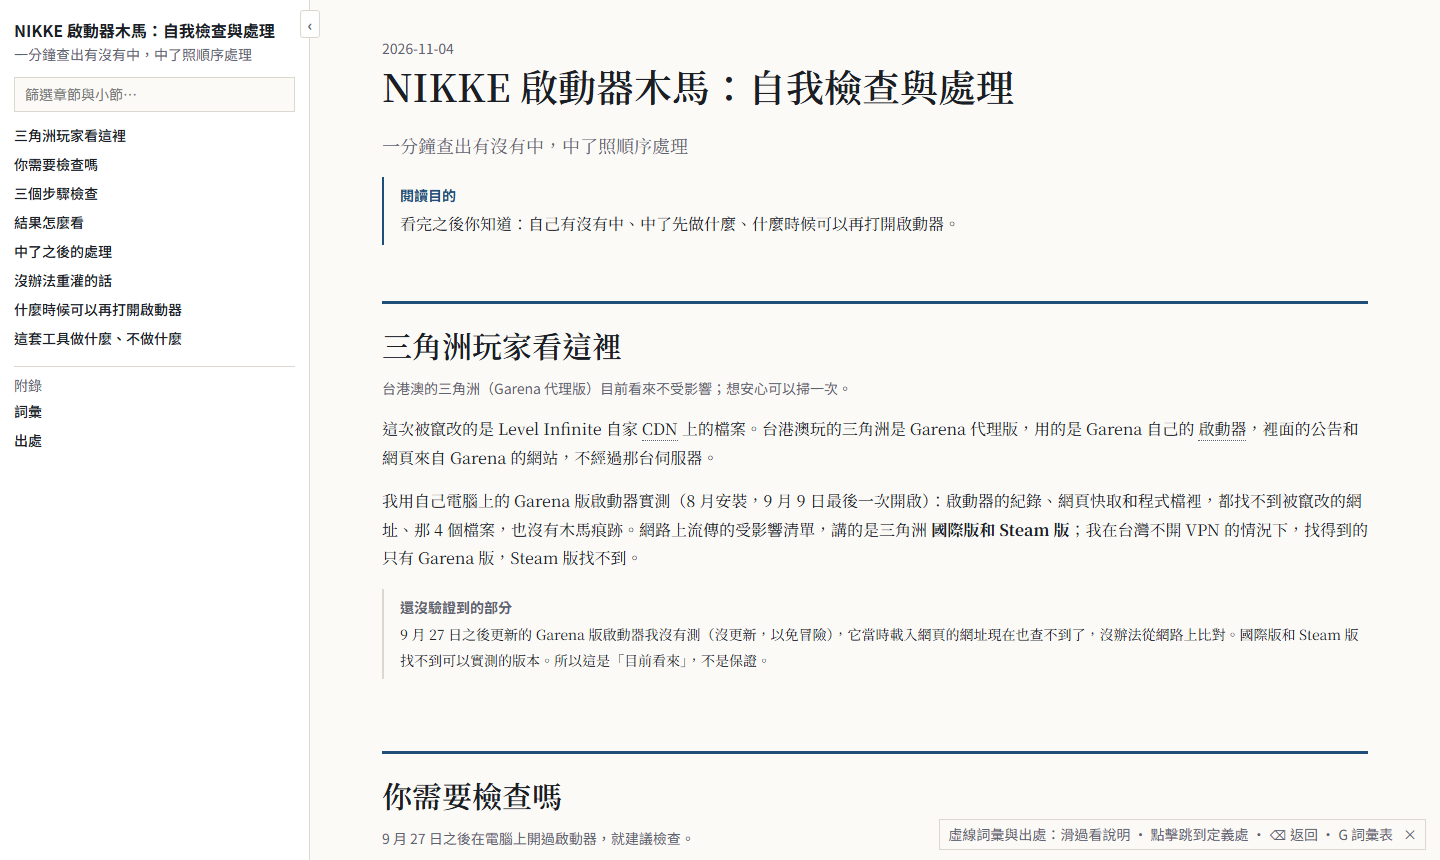
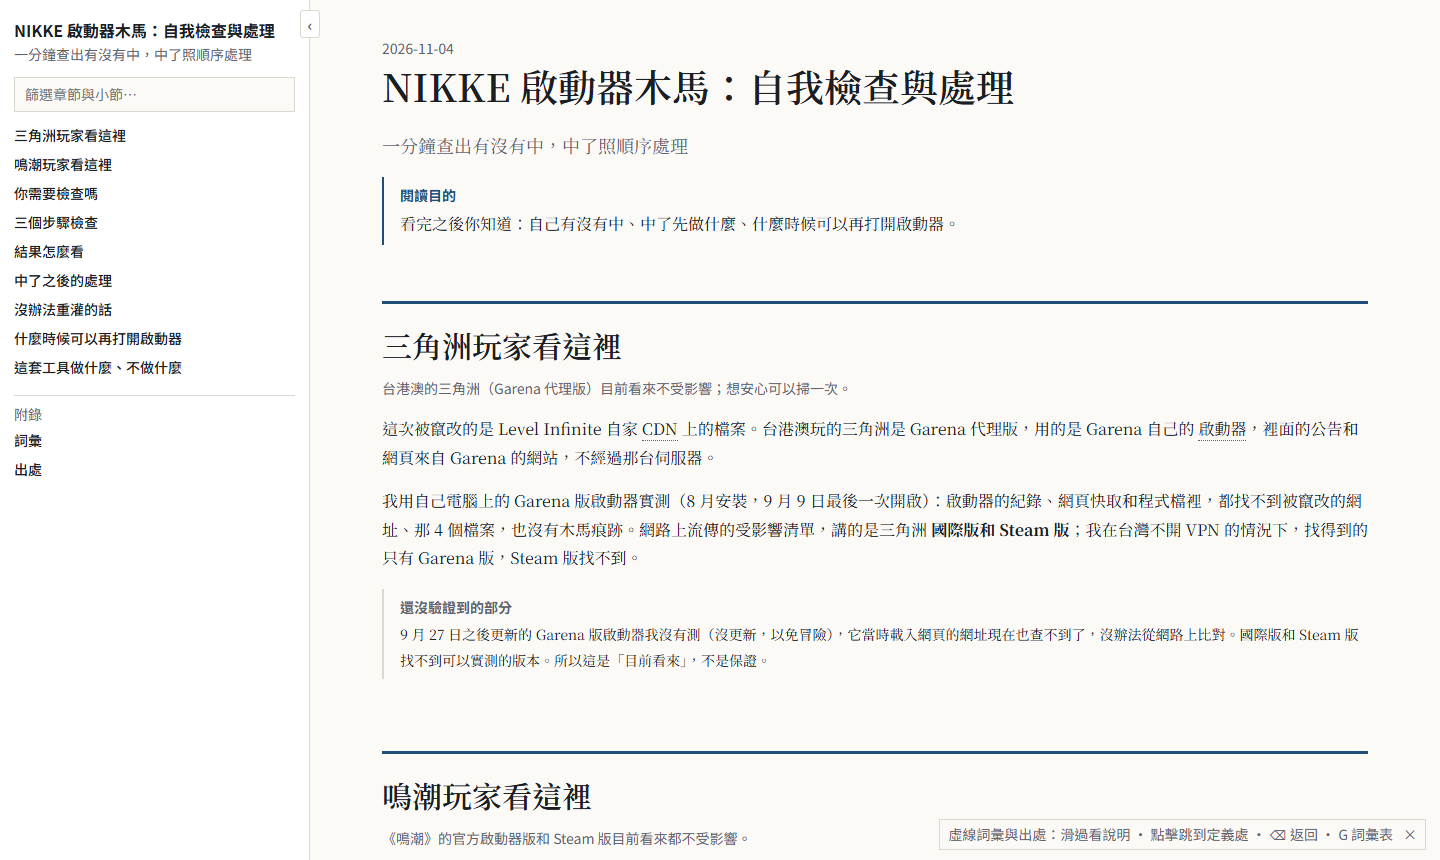
docs: add a wuthering waves section to readme, facts and player guide
The author's read-only byte scan of the official-launcher and Steam
editions found no K2F or tampered-CDN indicator; both binaries are
Kuro-signed and use a WebView2 launcher, not the Level Infinite one.

Changed region(s): [[0.0, 0.1814, 0.125, 0.5744], [0.25, 0.907, 0.5312, 0.9977]]

diff --git a/docs/index.html b/docs/index.html
@@ -420,11 +420,12 @@ li{margin:4px 0}
 #side ~ main{margin-left:var(--pdl-side-w)}
 @media (max-width:920px){#side{width:auto} #side ~ main{margin-left:0}}
 </style>
-<meta name="carrier-stamp" content="{&quot;body_sha256&quot;: &quot;27b3443823ffcdc9425d26d485ca821524e2781a7c527e9370f9469e35c83928&quot;, &quot;built_at&quot;: &quot;2026-11-04T13:22:57Z&quot;, &quot;carrier&quot;: &quot;html-explainer&quot;, &quot;content_sha256&quot;: &quot;d03e2006a87051a9d2cc14cf9e83aa79be0690f8aa269301fc20a74e3ef14c13&quot;, &quot;schema&quot;: &quot;explainer/2&quot;, &quot;version&quot;: 11}">
+<meta name="carrier-stamp" content="{&quot;body_sha256&quot;: &quot;6eb673931feba6b20d6de6127947c8bfbe74fb8996285ca454e2a71be12f76b0&quot;, &quot;built_at&quot;: &quot;2026-11-04T15:09:36Z&quot;, &quot;carrier&quot;: &quot;html-explainer&quot;, &quot;content_sha256&quot;: &quot;ae0ba28315804a2d31ec7896658edf493eb009008e1f83d62b08ac6d6aafa9b1&quot;, &quot;schema&quot;: &quot;explainer/2&quot;, &quot;version&quot;: 11}">
 </head>
 <body>
 <nav id="side" aria-label="章節導覽"><h1>NIKKE 啟動器木馬：自我檢查與處理</h1><div class="sub">一分鐘查出有沒有中，中了照順序處理</div>
 <a class="l1" href="#deltaforce" data-sec>三角洲玩家看這裡</a>
+<a class="l1" href="#wuwa" data-sec>鳴潮玩家看這裡</a>
 <a class="l1" href="#who" data-sec>你需要檢查嗎</a>
 <a class="l1" href="#check" data-sec>三個步驟檢查</a>
 <a class="l1" href="#verdict" data-sec>結果怎麼看</a>
@@ -436,7 +437,7 @@ li{margin:4px 0}
 <a class="l1" href="#x_glossary" data-sec>詞彙</a>
 <a class="l1" href="#x_refs" data-sec>出處</a>
 </nav>
-<main data-sections="deltaforce,who,check,verdict,fix,noreinstall,reopen,limits">
+<main data-sections="deltaforce,wuwa,who,check,verdict,fix,noreinstall,reopen,limits">
 <header class="pagehead">
 <div class="eyebrow">2026-11-04</div>
 <h1 class="title">NIKKE 啟動器木馬：自我檢查與處理</h1>
@@ -450,12 +451,20 @@ li{margin:4px 0}
 <p>我用自己電腦上的 Garena 版啟動器實測（8 月安裝，9 月 9 日最後一次開啟）：啟動器的紀錄、網頁快取和程式檔裡，都找不到被竄改的網址、那 4 個檔案，也沒有木馬痕跡。網路上流傳的受影響清單，講的是三角洲 <b>國際版和 Steam 版</b>；我在台灣不開 VPN 的情況下，找得到的只有 Garena 版，Steam 版找不到。</p>
 <div class="box src" data-kind="note"><span class="tag">還沒驗證到的部分</span>9 月 27 日之後更新的 Garena 版啟動器我沒有測（沒更新，以免冒險），它當時載入網頁的網址現在也查不到了，沒辦法從網路上比對。國際版和 Steam 版找不到可以實測的版本。所以這是「目前看來」，不是保證。</div>
 </section>
+<section class="ch" id="wuwa" data-kind="content">
+<h2>鳴潮玩家看這裡</h2>
+<div class="chsub">《鳴潮》的官方啟動器版和 Steam 版目前看來都不受影響。</div>
+<p>網路上有人因為騰訊入股庫洛、鳴潮曾和 Level Infinite 合作，猜鳴潮也中了。目前沒有任何樣本或紀錄支持這個說法。</p>
+<p>鳴潮的 <span class="sym" tabindex="0" data-key="啟動器">啟動器</span> 是庫洛自己做的，程式上的數位簽章是庫洛的香港公司；Steam 版也是由庫洛簽章的程式啟動。兩個都不是這次出事的 Level Infinite 啟動器，裡面顯示網頁的元件也跟妮姬那套不同。</p>
+<p>我用自己電腦上的兩個版本實測（9 月 27 日之後都開過）：安裝資料夾和啟動器的網頁快取，大約 2,600 個檔案逐一比對，找不到木馬的網址和連線位址，也找不到被竄改那台 Level Infinite 伺服器的網址。</p>
+<div class="box src" data-kind="note"><span class="tag">還沒驗證到的部分</span>只測了一台電腦，而且只能比對已知的痕跡。檢查工具本身不認得鳴潮的資料夾，不用另外指定；但照 <a href="#check">三個步驟檢查</a> 跑一次還是有用，因為瀏覽器後門那部分不管玩哪款遊戲都會查。</div>
+</section>
 <section class="ch" id="who" data-kind="content">
 <h2>你需要檢查嗎</h2>
 <div class="chsub">9 月 27 日之後在電腦上開過啟動器，就建議檢查。</div>
 <p>2026 年 9 月底到 11 月初，官方 <span class="sym" tabindex="0" data-key="CDN">CDN</span> 上有 4 個檔案被攻擊者竄改。<span class="sym" tabindex="0" data-key="啟動器">啟動器</span> 一打開就會自動載入它們，部分玩家因此被裝上遠端控制 <span class="sym" tabindex="0" data-key="木馬">木馬</span>。它會偷瀏覽器存的密碼和登入狀態、NIKKE 帳密、各種金鑰，以及加密貨幣錢包。</p>
 <p>只要 9 月 27 日之後在 <b>電腦</b> 上打開過啟動器，國際版、港澳台版、日版都算，Steam Deck 和 Linux 也算，就建議檢查。只玩手機版的話，目前沒有出事的回報。</p>
-<div class="box src" data-kind="note"><span class="tag">其他遊戲也會中嗎？</span>網路上流傳一份清單，說王者榮耀國際版、暗區突圍等同一家發行商的電腦版也中了，但到目前為止 <b>沒有證實</b>。清單裡的 PUBG 指的是手機版，發行商 Krafton 已說它沒有電腦版、跟這次無關；PUBG 電腦版（Steam）是 Krafton 自己發行、由 Steam 直接啟動，不經過這次出事的啟動器。台港澳的三角洲看 <a href="#deltaforce">三角洲玩家看這裡</a>。其他遊戲可以照下一節最後一段，指定那個遊戲的啟動器資料夾再跑一次；瀏覽器後門那部分不管玩哪款遊戲都會查。</div>
+<div class="box src" data-kind="note"><span class="tag">其他遊戲也會中嗎？</span>網路上流傳一份清單，說王者榮耀國際版、暗區突圍等同一家發行商的電腦版也中了，但到目前為止 <b>沒有證實</b>。清單裡的 PUBG 指的是手機版，發行商 Krafton 已說它沒有電腦版、跟這次無關；PUBG 電腦版（Steam）是 Krafton 自己發行、由 Steam 直接啟動，不經過這次出事的啟動器。台港澳的三角洲看 <a href="#deltaforce">三角洲玩家看這裡</a>，鳴潮看 <a href="#wuwa">鳴潮玩家看這裡</a>。其他遊戲可以照下一節最後一段，指定那個遊戲的啟動器資料夾再跑一次；瀏覽器後門那部分不管玩哪款遊戲都會查。</div>
 <div class="box warn" data-kind="warn"><span class="tag">先做這件事</span>檢查和處理完之前，不要再打開電腦版啟動器。</div>
 </section>
 <section class="ch" id="check" data-kind="content">
@@ -521,7 +530,7 @@ li{margin:4px 0}
 <div id="pins" aria-label="釘選的預覽卡片"></div>
 <button id="backpill" type="button">↩ 返回（Backspace）</button>
 <script type="application/json" id="previews">{}</script>
-<script type="application/json" id="rail-data">{"deltaforce":{"s":"台港澳的三角洲（Garena 代理版）目前看來不受影響；想安心可以掃一次。","t":["Garena 版不經過這次被竄改的伺服器","想確認：照 三個步驟檢查 跑，工具會自動找到"]},"who":{"s":"9 月 27 日之後在電腦上開過啟動器，就建議檢查。","t":["只玩手機版：目前沒有出事回報","檢查完之前先別開電腦版"]},"check":{"s":"下載、打開終端機、貼一行，再看最後一行結果。只讀檔案，不改任何東西。"},"verdict":{"s":"四種結果；紅字分第 1、第 2 階段。","t":["看到階段 2：處理完前 Chrome 不要登入任何帳號"]},"fix":{"s":"先用手機換密碼，再用處理工具清掉元件。","t":["換密碼工具做不到，要你自己來","處理工具只搬不刪"]},"noreinstall":{"s":"重灌最保險；不能重灌就跑後門掃描，再做 Defender 完整掃描。"},"reopen":{"s":"不必只信官方說法：自己比對 4 個檔案的指紋。","t":["4 個都乾淨才算","隔幾小時多查幾次"]},"limits":{"s":"只找已知痕跡；處理只搬不刪；不是官方工具。"}}</script>
+<script type="application/json" id="rail-data">{"deltaforce":{"s":"台港澳的三角洲（Garena 代理版）目前看來不受影響；想安心可以掃一次。","t":["Garena 版不經過這次被竄改的伺服器","想確認：照 三個步驟檢查 跑，工具會自動找到"]},"wuwa":{"s":"《鳴潮》的官方啟動器版和 Steam 版目前看來都不受影響。","t":["鳴潮用的是庫洛自己的啟動器","想安心：照 三個步驟檢查 跑，瀏覽器那部分照樣會查"]},"who":{"s":"9 月 27 日之後在電腦上開過啟動器，就建議檢查。","t":["只玩手機版：目前沒有出事回報","檢查完之前先別開電腦版"]},"check":{"s":"下載、打開終端機、貼一行，再看最後一行結果。只讀檔案，不改任何東西。"},"verdict":{"s":"四種結果；紅字分第 1、第 2 階段。","t":["看到階段 2：處理完前 Chrome 不要登入任何帳號"]},"fix":{"s":"先用手機換密碼，再用處理工具清掉元件。","t":["換密碼工具做不到，要你自己來","處理工具只搬不刪"]},"noreinstall":{"s":"重灌最保險；不能重灌就跑後門掃描，再做 Defender 完整掃描。"},"reopen":{"s":"不必只信官方說法：自己比對 4 個檔案的指紋。","t":["4 個都乾淨才算","隔幾小時多查幾次"]},"limits":{"s":"只找已知痕跡；處理只搬不刪；不是官方工具。"}}</script>
 <script>window.SITE_REFS = {"MotherSphere 技術整理":{"t":"MotherSphere 技術整理","d":"完整的痕跡清單、時間線與移除順序。","s":"#r_gist","n":true},"WormW 樣本分析":{"t":"WormW 樣本分析","d":"木馬本體的行為分析與偵測規則。","s":"#r_wormw","n":true},"巴哈姆特整理文":{"t":"巴哈姆特整理文","d":"中文懶人包與判斷標準。","s":"#r_baha","n":true},"工具原始碼":{"t":"工具原始碼","d":"四支 PowerShell 腳本，下載前可以先看內容。","s":"#r_repo","n":true}};
 window.SITE_SYMS = {"啟動器":{"t":"啟動器 — launcher","d":"電腦版 NIKKE 開遊戲前出現的那個視窗。它會從網路載入公告和網頁，這次出事的就是它載入的程式。","s":"#g_launcher","n":true},"CDN":{"t":"CDN — content delivery network","d":"官方用來把檔案發到世界各地的伺服器群。各地有很多節點，你連到的不一定是同一台。","s":"#g_cdn","n":true},"木馬":{"t":"木馬 — remote access trojan","d":"讓攻擊者可以遠端操作你電腦的程式：執行指令、截圖、偷存在電腦裡的密碼和金鑰。","s":"#g_trojan","n":true},"檔案指紋":{"t":"檔案指紋 — ETag","d":"伺服器給每個檔案版本的一串代號。檔案內容一變，代號就跟著變，所以可以拿來比對是不是乾淨的版本。","s":"#g_etag","n":true},"隔離資料夾":{"t":"隔離資料夾 — quarantine folder","d":"處理工具把可疑檔案搬去的地方，在你的使用者資料夾底下。東西沒有被刪掉，只是搬走並改名，不會再被載入。","s":"#g_quarantine","n":true},"終端機":{"t":"終端機 — PowerShell","d":"Windows 內建輸入指令的視窗。在開始按鈕上按右鍵，選「終端機」或「Windows PowerShell」就會打開。","s":"#g_terminal","n":true}};</script>
 <script>

diff --git a/README.en.md b/README.en.md
@@ -25,6 +25,16 @@ English · [中文](README.md)
 - The circulating list of affected games refers to Delta Force **global / Steam**. From Taiwan without a VPN the author could only find the Garena edition, not the Steam one.
 - Not verified: Garena launcher builds after 09-27 (the author did not update, to avoid the risk; the web host it used no longer resolves, so it cannot be compared online), and the global / Steam builds (none available to test).
 
+## Wuthering Waves players
+
+> **Wuthering Waves, both the official-launcher edition and the Steam edition, does not appear to be affected.**
+
+- Some players guessed it was hit because Tencent holds a stake in Kuro Games and the game once worked with Level Infinite; no sample or log supports that claim.
+- Its launcher is Kuro's own (binaries signed by KURO TECHNOLOGY (HONG KONG)), and the Steam edition starts from a Kuro-signed program too; neither is the tampered Level Infinite launcher. Its web view is Edge WebView2 (data in `%APPDATA%\KRLauncher`), not the one NIKKE uses.
+- The author checked both editions on their own PC (both opened after 09-27, by folder timestamps): about 2,600 files in the install folders, `%APPDATA%\KRLauncher` and `LocalLow\kurogame`, searched byte by byte, contain none of the K2F domains, C2 addresses, malware file names or the tampered Level Infinite CDN hosts.
+- The checker does not recognise the Wuthering Waves folder layout, so there is no need for `-InstallPath`; running the [quick start](#quick-start) is still useful, because the browser-backdoor checks run whatever game you play.
+- Not verified: one PC only; known indicators only.
+
 ## What happened
 
 From 2026-09-27, four JavaScript files on Level Infinite's CDN were tampered with. The NIKKE PC launcher loads them on start, and some players got a remote-access trojan (K2F) that steals browser passwords and cookies, the saved NIKKE login, SSH and API keys, crypto wallets, and can run any command. The publisher announced a fix on 2026-11-04, but **a PC that was already infected does not become clean by updating**.
@@ -109,7 +119,7 @@ flowchart TD
 ## Limits
 
 - Known indicators only; the RAT could run arbitrary commands, so a reinstall remains the safest option.
-- **Other games**: claims that Delta Force global / Steam, Honor of Kings global and other Level Infinite titles were hit are **unconfirmed**. The PUBG on that list is PUBG Mobile, which Krafton says has no PC version and is unrelated; PUBG on PC (Steam) is published by Krafton and launched directly by Steam, without the tampered launcher. For the Delta Force Garena edition see [Delta Force players](#delta-force-players-read-this-first). For other games pass the launcher folder with `-InstallPath`. See [docs/FACTS.md](docs/FACTS.md#其他遊戲未證實).
+- **Other games**: claims that Delta Force global / Steam, Honor of Kings global and other Level Infinite titles were hit are **unconfirmed**. The PUBG on that list is PUBG Mobile, which Krafton says has no PC version and is unrelated; PUBG on PC (Steam) is published by Krafton and launched directly by Steam, without the tampered launcher. For the Delta Force Garena edition see [Delta Force players](#delta-force-players-read-this-first); for Wuthering Waves see [Wuthering Waves players](#wuthering-waves-players). For other games pass the launcher folder with `-InstallPath`. See [docs/FACTS.md](docs/FACTS.md#其他遊戲未證實).
 - Stage 2 (HKCU, `%LOCALAPPDATA%`) is only reliable from your own PowerShell window; some sandboxed app terminals virtualize those locations.
 - Windows Defender may flag the downloaded ZIP (usually a `!ml` machine-learning name such as `Trojan:Script/Wacatac.B!ml`). The code is public for inspection; do not turn off your antivirus for it, report the false positive through Microsoft's file submission page instead. See [docs/FACTS.md](docs/FACTS.md#防毒誤報).
 - Not an official tool. Details: [docs/DEVELOPER.md](docs/DEVELOPER.md#限制).

diff --git a/README.md b/README.md
@@ -23,6 +23,16 @@
 - 網路上流傳的受影響清單講的是三角洲**國際版／Steam 版**。作者在台灣不開 VPN 的情況下，找得到的只有 Garena 版，Steam 版找不到。
 - 沒驗證到的部分：Garena 版 9/27 之後的新版啟動器（作者沒更新，以免冒險；它當時載入網頁的網址現在已經查不到，沒辦法從網路比對）；國際版與 Steam 版找不到可以實測的版本。
 
+## 鳴潮玩家看這裡
+
+> **《鳴潮》（Wuthering Waves）的官方啟動器版和 Steam 版目前看來都不受這次事件影響。**
+
+- 網路上有人因為騰訊入股庫洛、鳴潮曾與 Level Infinite 合作，猜鳴潮也中了；目前沒有任何樣本或紀錄支持這個說法。
+- 鳴潮的啟動器是庫洛自己的（程式檔簽章是 KURO TECHNOLOGY (HONG KONG)），Steam 版也是由庫洛簽章的程式啟動，都不是這次出事的 Level Infinite 啟動器。它的網頁元件是 Edge WebView2（資料在 `%APPDATA%\KRLauncher`），跟妮姬那套不同。
+- 作者實測自己電腦上的兩個版本（依資料夾時間，9/27 之後都開過）：安裝資料夾、`%APPDATA%\KRLauncher` 和 `LocalLow\kurogame` 共約 2,600 個檔案逐位元組比對，找不到木馬網域、C2 位址、木馬檔名，也找不到被竄改那台 Level Infinite 伺服器的網址。
+- 檢查工具不認得鳴潮的資料夾結構，所以不必指定 `-InstallPath`；但照[快速開始](#快速開始)跑一次仍然有用，因為瀏覽器後門那部分不管玩哪款遊戲都會查。
+- 沒驗證到的部分：只測了一台電腦；只能比對已知痕跡。
+
 ## 發生了什麼
 
 2026 年 9 月 27 日起，官方 CDN 上 4 個 JS 檔被竄改。電腦版啟動器一打開就會載入它們，部分玩家因此被裝上遠端控制木馬（K2F）。木馬會偷瀏覽器密碼與登入狀態、NIKKE 帳密、SSH 與 API 金鑰、加密貨幣錢包，還能執行任意指令。官方 11/4 公告已經修復，但**已經中毒的電腦不會因為更新就變乾淨**。
@@ -109,7 +119,7 @@ flowchart TD
 ## 限制
 
 - 只能找**已知**痕跡。木馬能執行任意指令，最保險的做法仍是重灌。
-- **其他遊戲**：網路上說三角洲國際版／Steam 版、王者榮耀國際版等 Level Infinite 遊戲也中了，目前**沒有證實**。清單裡的 PUBG 指的是 PUBG Mobile，Krafton 已說它沒有 PC 版、與這次無關；PUBG 電腦版（Steam）是 Krafton 發行、由 Steam 直接啟動，不經過這次被竄改的啟動器。台港澳三角洲 Garena 版見[三角洲玩家看這裡](#三角洲玩家看這裡)。其他遊戲要用 `-InstallPath` 指定啟動器資料夾。詳見 [docs/FACTS.md](docs/FACTS.md#其他遊戲未證實)。
+- **其他遊戲**：網路上說三角洲國際版／Steam 版、王者榮耀國際版等 Level Infinite 遊戲也中了，目前**沒有證實**。清單裡的 PUBG 指的是 PUBG Mobile，Krafton 已說它沒有 PC 版、與這次無關；PUBG 電腦版（Steam）是 Krafton 發行、由 Steam 直接啟動，不經過這次被竄改的啟動器。台港澳三角洲 Garena 版見[三角洲玩家看這裡](#三角洲玩家看這裡)，鳴潮見[鳴潮玩家看這裡](#鳴潮玩家看這裡)。其他遊戲要用 `-InstallPath` 指定啟動器資料夾。詳見 [docs/FACTS.md](docs/FACTS.md#其他遊戲未證實)。
 - 第 2 階段（HKCU 登錄檔、`%LOCALAPPDATA%`）要在你自己開的 PowerShell 視窗跑才準；在某些沙箱化 App 的內建終端機裡，這兩處可能被虛擬化。
 - Windows Defender 可能把下載的 ZIP 誤報成病毒（名稱常帶 `!ml`）。程式全部公開可檢查，請不要為此關掉防毒；可到微軟的檔案提交頁面回報誤判。詳見 [docs/FACTS.md](docs/FACTS.md#防毒誤報)。
 - 這不是官方工具，痕跡清單會跟著原始研究更新。詳見 [docs/DEVELOPER.md](docs/DEVELOPER.md#限制)。
